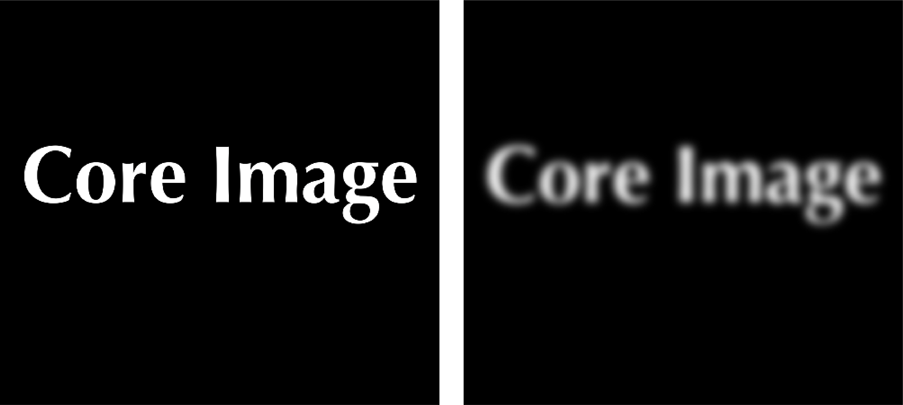
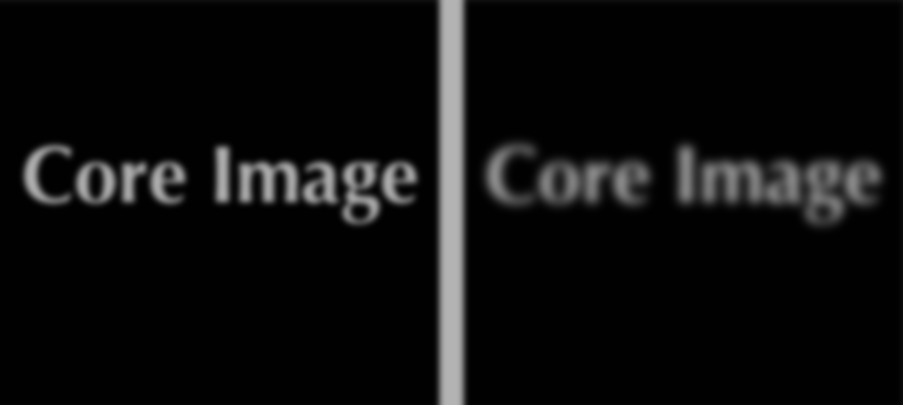
修改core image背景图片

Changed region(s): [[0.0, 0.0, 0.9922, 1.0]]

diff --git a/_posts/2019-01-23-Core Image-入门导读.md b/_posts/2019-01-23-Core Image-入门导读.md
@@ -11,8 +11,6 @@ tags:
     - 滤镜
 ---
 
-![高斯模糊](https://ws1.sinaimg.cn/large/006tNc79gy1fzgg9mx2avj30p30b9gln.jpg)
-
 ## 简介
 
 Core Image 是一种图像处理和分析技术，可为静态和视频图像提供高性能处理。 使用许多内置图像过滤器来处理图像并通过链接过滤器来构建复杂效果。
